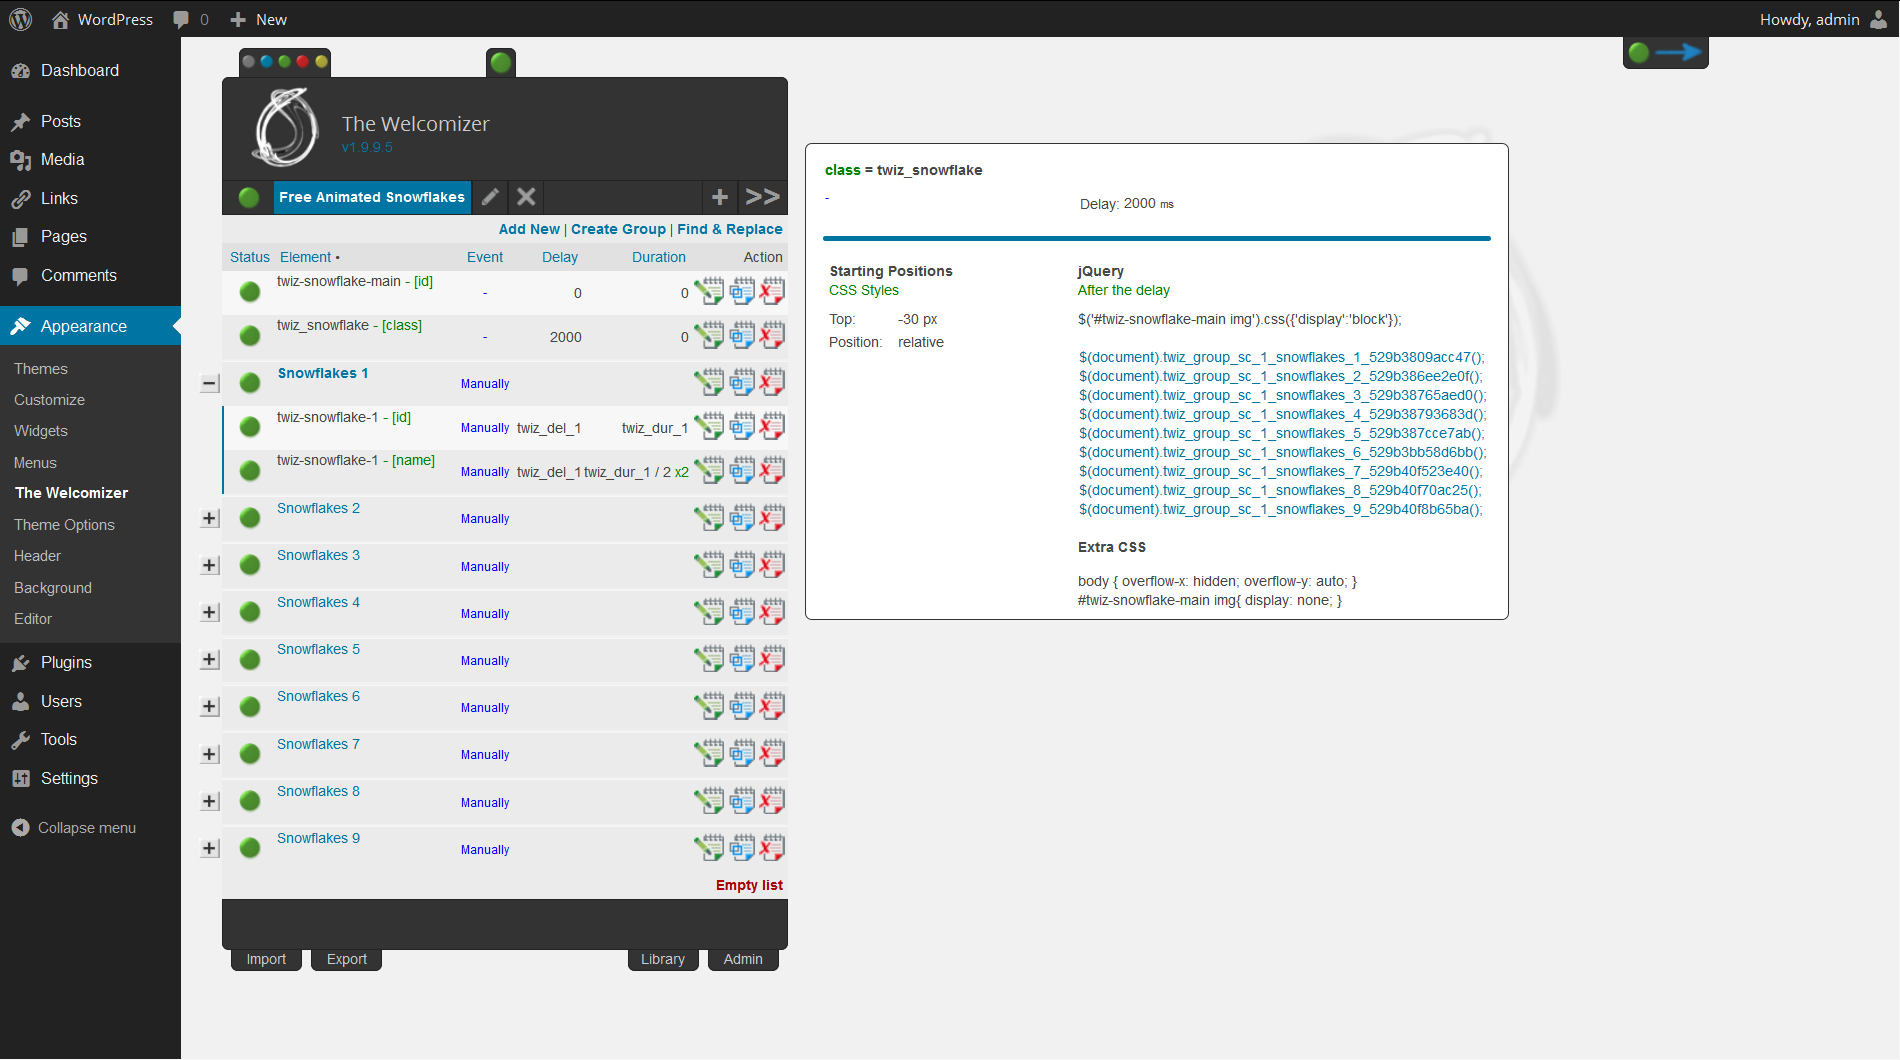
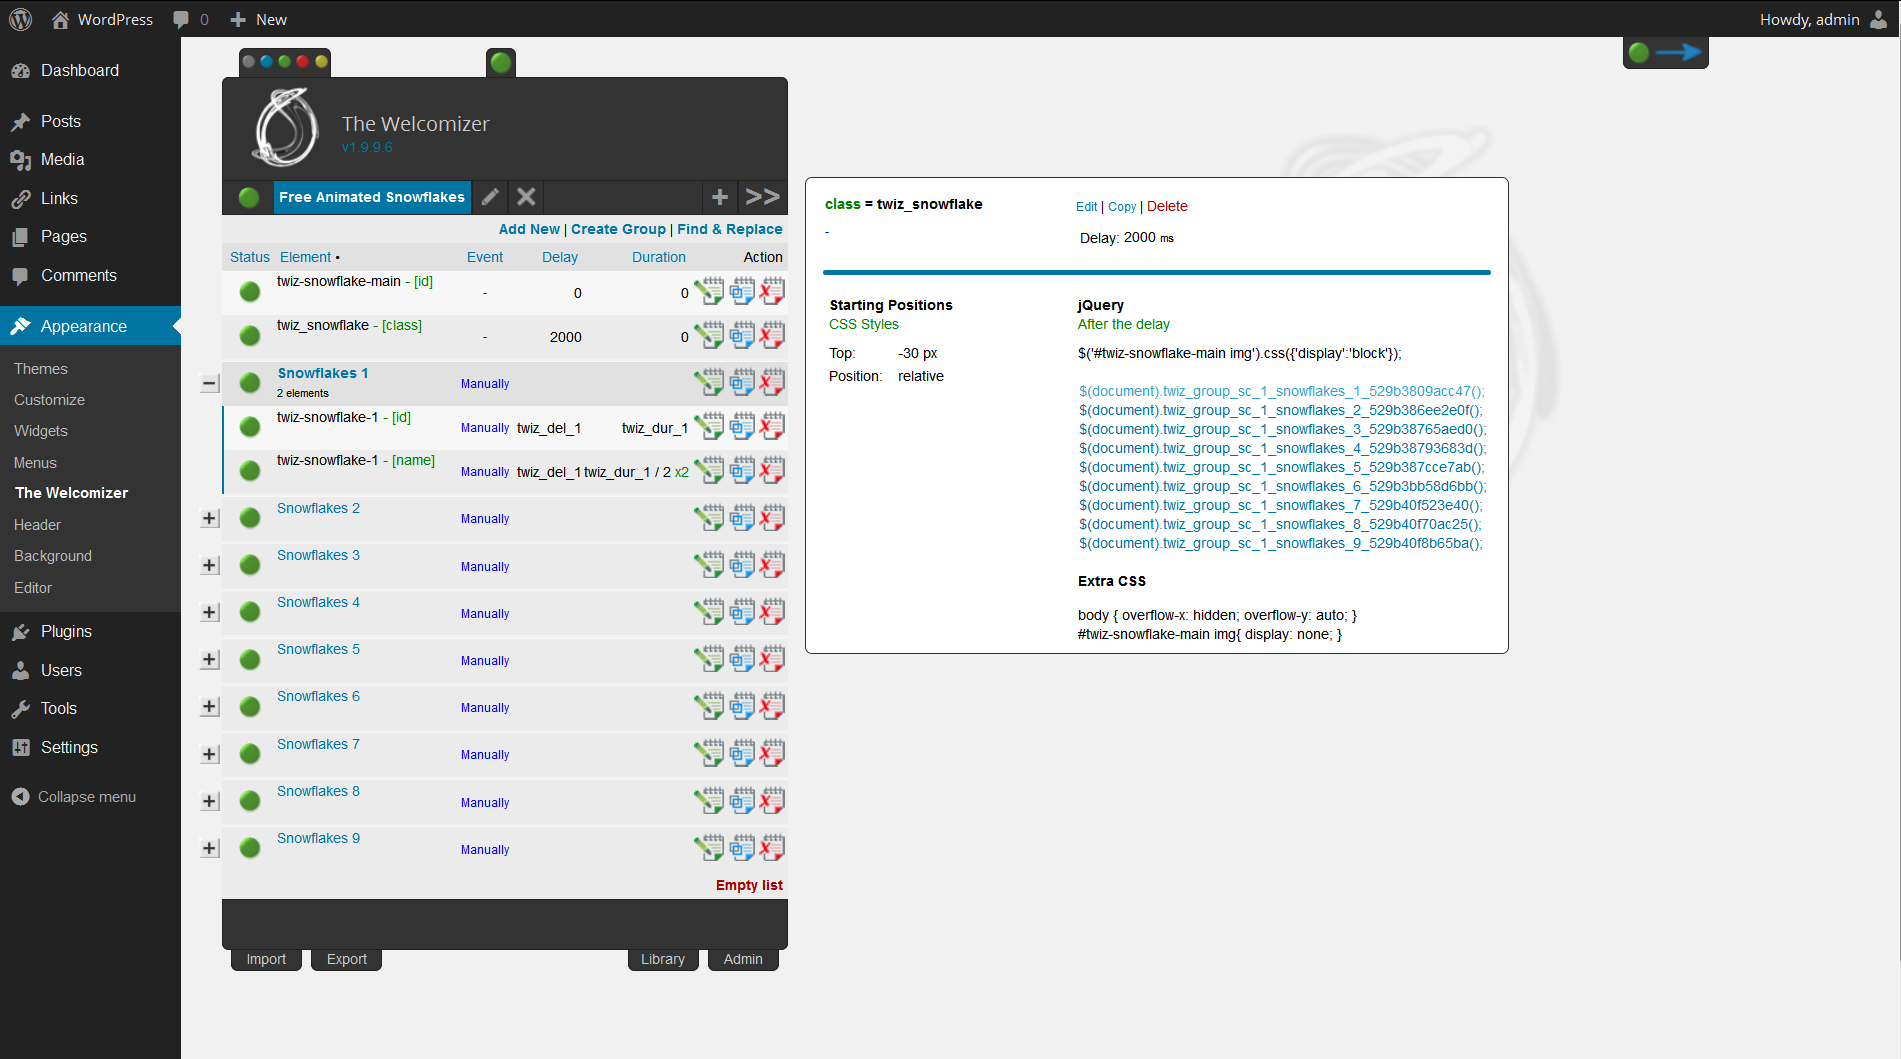
v1.9.9.6
git-svn-id: https://plugins.svn.wordpress.org/the-welcomizer/trunk@828587 b8457f37-d9ea-0310-8a92-e5e31aec5664

diff --git a/skins/_default/twiz-style.css b/skins/_default/twiz-style.css
@@ -4,6 +4,9 @@ body {
     line-height: 1.4em !important;
     min-width: 600px !important;
 }
+#wpbody, input[type="text"], textarea, select {
+    color: #000000 !important;
+}
 td, textarea, input, select {
     font-family: inherit !important;
     font-size: inherit !important;
@@ -188,7 +191,7 @@ div a, td a {
 }
 .twiz-right-panel {
     margin: 19px 0 0 15px;
-    color: #464646;
+    color: #000000;
     background-color: #ffffff;
 }
 .twiz-menu-header{

diff --git a/skins/blue/twiz-style.css b/skins/blue/twiz-style.css
@@ -4,6 +4,9 @@ body {
     line-height: 1.4em !important;
     min-width: 600px !important;
 }
+#wpbody, input[type="text"], textarea, select {
+    color: #000000 !important;
+}
 td, textarea, input, select {
     font-family: inherit !important;
     font-size: inherit !important;
@@ -188,7 +191,7 @@ div a, td a {
 }
 .twiz-right-panel {
     margin: 19px 0 0 15px;
-    color: #464646;
+    color: #000000;
     background-color: #ffffff;
 }
 .twiz-menu-header{

diff --git a/skins/green/twiz-style.css b/skins/green/twiz-style.css
@@ -4,6 +4,9 @@ body {
     line-height: 1.4em !important;
     min-width: 600px !important;
 }
+#wpbody, input[type="text"], textarea, select {
+    color: #000000 !important;
+}
 td, textarea, input, select {
     font-family: inherit !important;
     font-size: inherit !important;
@@ -188,7 +191,7 @@ div a, td a {
 }
 .twiz-right-panel {
     margin: 19px 0 0 15px;
-    color: #464646;
+    color: #000000;
     background-color: #ffffff;
 }
 .twiz-menu-header{

diff --git a/skins/red/twiz-style.css b/skins/red/twiz-style.css
@@ -4,6 +4,9 @@ body {
     line-height: 1.4em !important;
     min-width: 600px !important;
 }
+#wpbody, input[type="text"], textarea, select {
+    color: #000000 !important;
+}
 td, textarea, input, select {
     font-family: inherit !important;
     font-size: inherit !important;
@@ -188,7 +191,7 @@ div a, td a {
 }
 .twiz-right-panel {
     margin: 19px 0 0 15px;
-    color: #464646;
+    color: #000000;
     background-color: #ffffff;
 }
 .twiz-menu-header{

diff --git a/skins/yellow/twiz-style.css b/skins/yellow/twiz-style.css
@@ -4,6 +4,9 @@ body {
     line-height: 1.4em !important;
     min-width: 600px !important;
 }
+#wpbody, input[type="text"], textarea, select {
+    color: #000000 !important;
+}
 td, textarea, input, select {
     font-family: inherit !important;
     font-size: inherit !important;
@@ -188,7 +191,7 @@ div a, td a {
 }
 .twiz-right-panel {
     margin: 19px 0 0 15px;
-    color: #464646;
+    color: #000000;
     background-color: #ffffff;
 }
 .twiz-menu-header{

diff --git a/includes/twiz.class.php b/includes/twiz.class.php
@@ -863,8 +863,8 @@ class Twiz{
         $pluginDir = str_replace('/includes/','',$pluginDir);
 
         // Twiz variable configuration
-        $this->version    = '1.9.9.5';
-        $this->cssVersion = '2-12';
+        $this->version    = '1.9.9.6';
+        $this->cssVersion = '2-13';
         $this->dbVersion  = '3.5';
         $this->pluginUrl  = $pluginUrl;
         $this->pluginDir  = $pluginDir;

diff --git a/twiz-index.php b/twiz-index.php
@@ -1,7 +1,7 @@
 <?php
 /*
 Plugin Name: The Welcomizer
-Version: 1.9.9.5
+Version: 1.9.9.6
 Plugin URI: http://www.sebastien-laframboise.com/wordpress/plugins-wordpress/the-welcomizer
 Description: This plugin allows you to animate your blog using jQuery effects. (100% AJAX) + .js/.css Includer.
 Author: S&#233;bastien Laframboise
